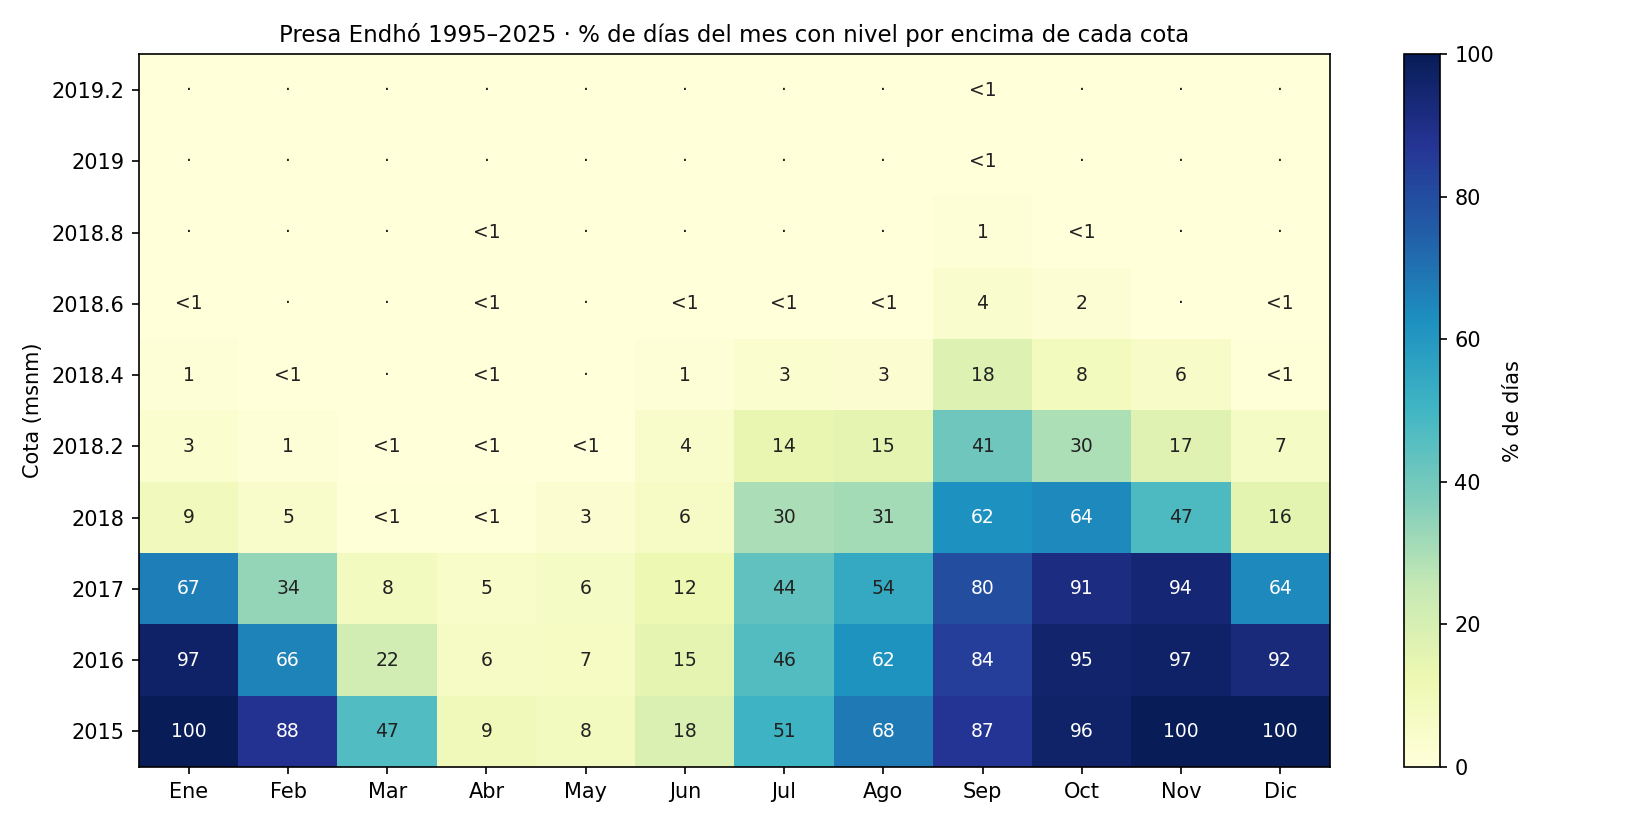
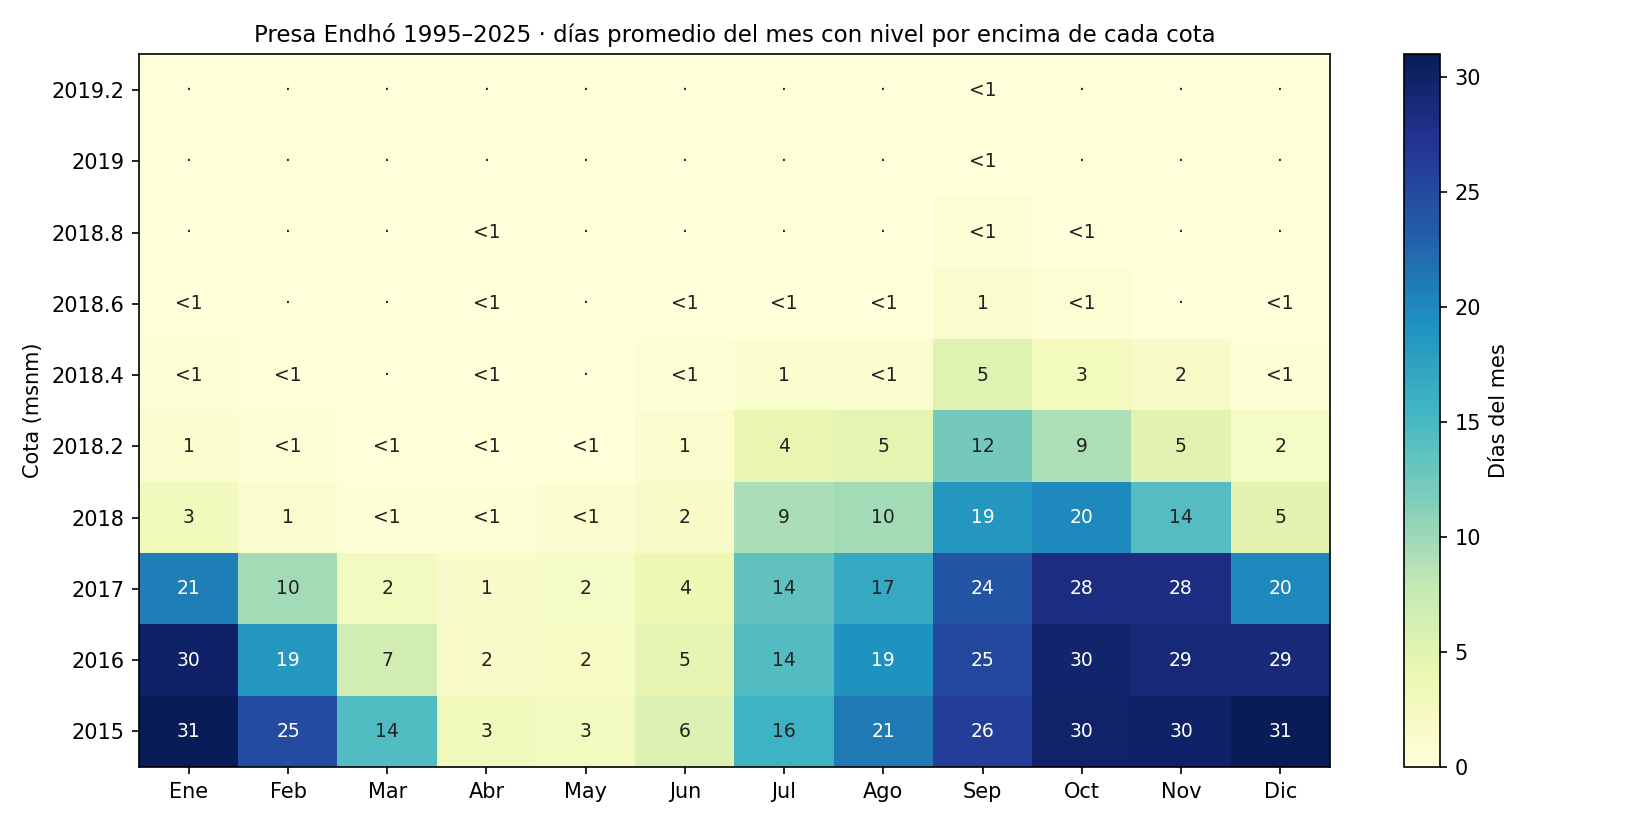
Temporada por mes en días

diff --git a/temporada_por_mes.py b/temporada_por_mes.py
@@ -6,6 +6,7 @@ import matplotlib.pyplot as plt
 
 COTAS = [2015, 2016, 2017, 2018, 2018.2, 2018.4, 2018.6, 2018.8, 2019, 2019.2]
 MESES = ["Ene", "Feb", "Mar", "Abr", "May", "Jun", "Jul", "Ago", "Sep", "Oct", "Nov", "Dic"]
+DIAS_MES = [31, 28.25, 31, 30, 31, 30, 31, 31, 30, 31, 30, 31]
 
 
 def main(niveles, out):
@@ -16,25 +17,25 @@ def main(niveles, out):
     df["fecha"] = pd.to_datetime(df["fecha"])
     df = df[(df.nivel > 1990) & (df.nivel < 2030)]
     df["mes"] = df.fecha.dt.month
-    tabla = pd.DataFrame({c: df.groupby("mes").nivel.apply(lambda s: (s > c).mean() * 100) for c in COTAS})
+    tabla = pd.DataFrame({c: df.groupby("mes").nivel.apply(lambda s: (s > c).mean()) for c in COTAS}).mul(DIAS_MES, axis=0)
     tabla.index = MESES
-    tabla.loc["Anual"] = [(df.nivel > c).mean() * 100 for c in COTAS]
+    tabla.loc["Anual"] = [(df.nivel > c).mean() * 365.25 for c in COTAS]
     tabla.round(1).to_csv(f"{out}/temporada_por_mes.csv", encoding="utf-8-sig")
 
     M = tabla.loc[MESES, COTAS[::-1]].T.values
     fig, ax = plt.subplots(figsize=(11, 5.5))
-    im = ax.imshow(M, cmap="YlGnBu", vmin=0, vmax=100, aspect="auto")
+    im = ax.imshow(M, cmap="YlGnBu", vmin=0, vmax=31, aspect="auto")
     for i in range(M.shape[0]):
         for j in range(M.shape[1]):
             v = M[i, j]
             ax.text(j, i, f"{v:.0f}" if v >= 1 else ("<1" if v > 0 else "·"), ha="center", va="center",
-                    fontsize=9, color="white" if v > 60 else "#222")
+                    fontsize=9, color="white" if v > 18 else "#222")
     ax.set_xticks(range(12), MESES)
     ax.set_yticks(range(len(COTAS)), [f"{c:g}" for c in COTAS[::-1]])
     ax.set_ylabel("Cota (msnm)")
     ax.set_title(f"Presa Endhó {df.fecha.dt.year.min()}–{df.fecha.dt.year.max()} · "
-                 "% de días del mes con nivel por encima de cada cota", fontsize=11)
-    plt.colorbar(im, ax=ax, label="% de días")
+                 "días promedio del mes con nivel por encima de cada cota", fontsize=11)
+    plt.colorbar(im, ax=ax, label="Días del mes")
     fig.tight_layout()
     fig.savefig(f"{out}/temporada_por_mes.png", dpi=150)
 
